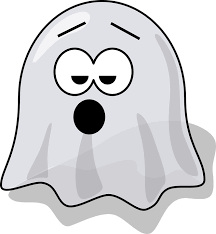
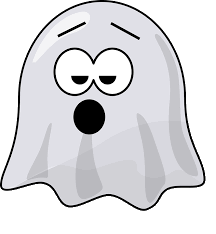
Adicionando fundo transparente as imagens

Changed region(s): [[0.0278, 0.5085, 1.0, 1.0]]

diff --git a/estilos.css b/estilos.css
@@ -42,12 +42,16 @@ canvas {
     color: red;
     font-weight: bold;
     font-size: 30px;
+    position: absolute;
+    top: 12%;
 }
 
 #mais-pontos {
     color: #006400;
     font-weight: bold;
     font-size: 30px;
+    position: absolute;
+    top: 12%;
 }
 
 /* Estilo do ganhou e perdeu */
@@ -55,7 +59,7 @@ canvas {
     color: red;
     font-size: 30px;
     text-align: center;
-    margin-top: 25%;
+    margin-top: 15%;
     font-weight: bold;
 }
 
